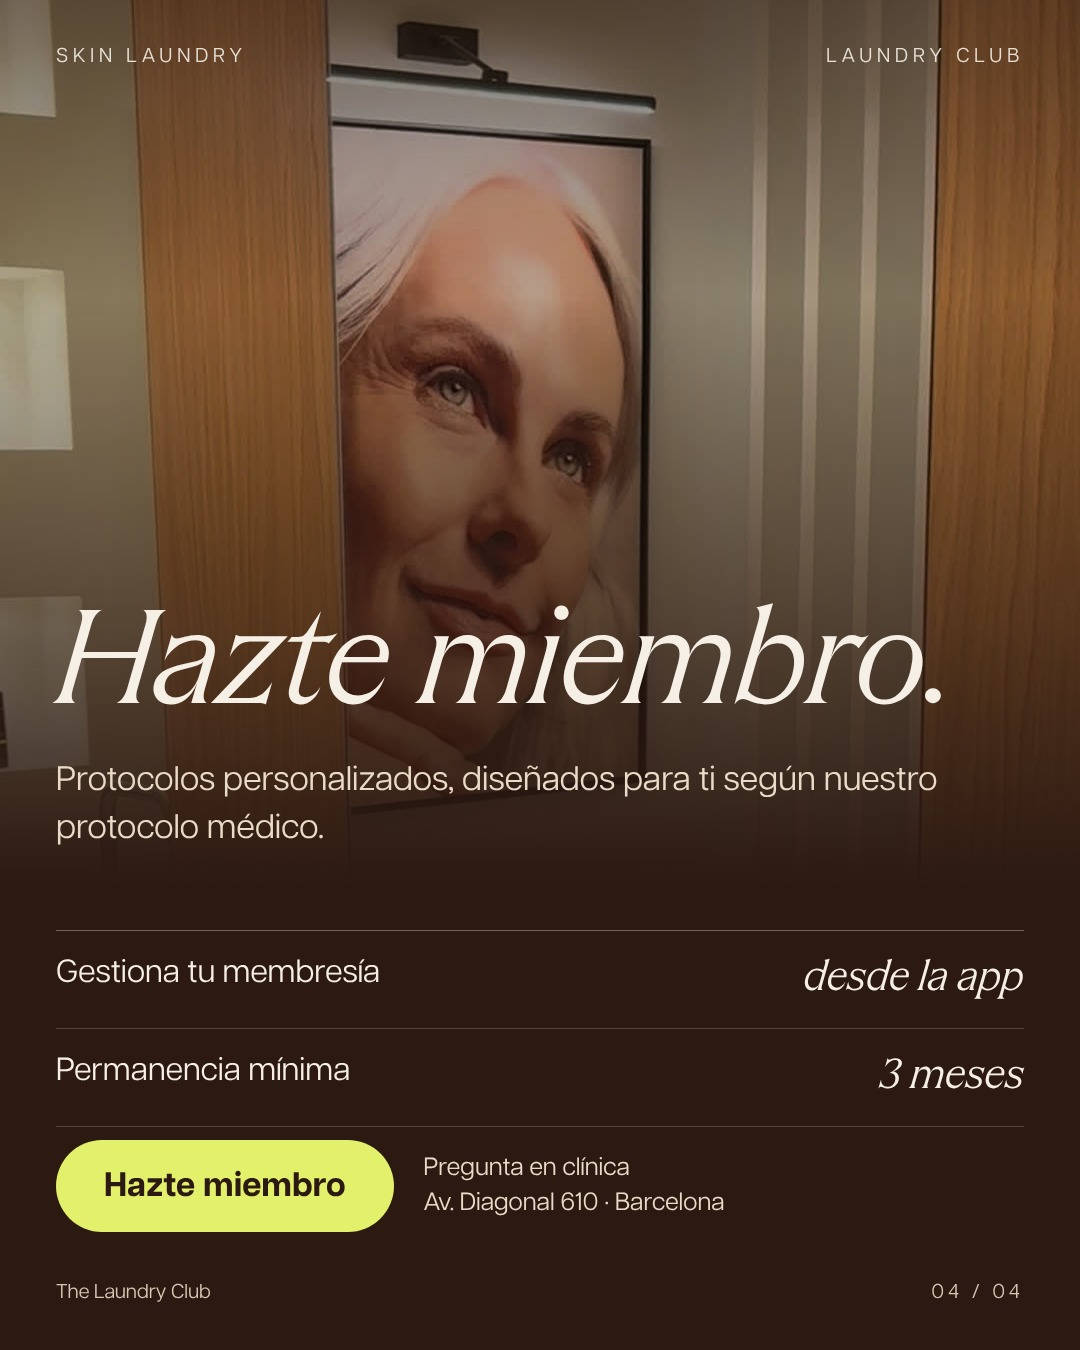
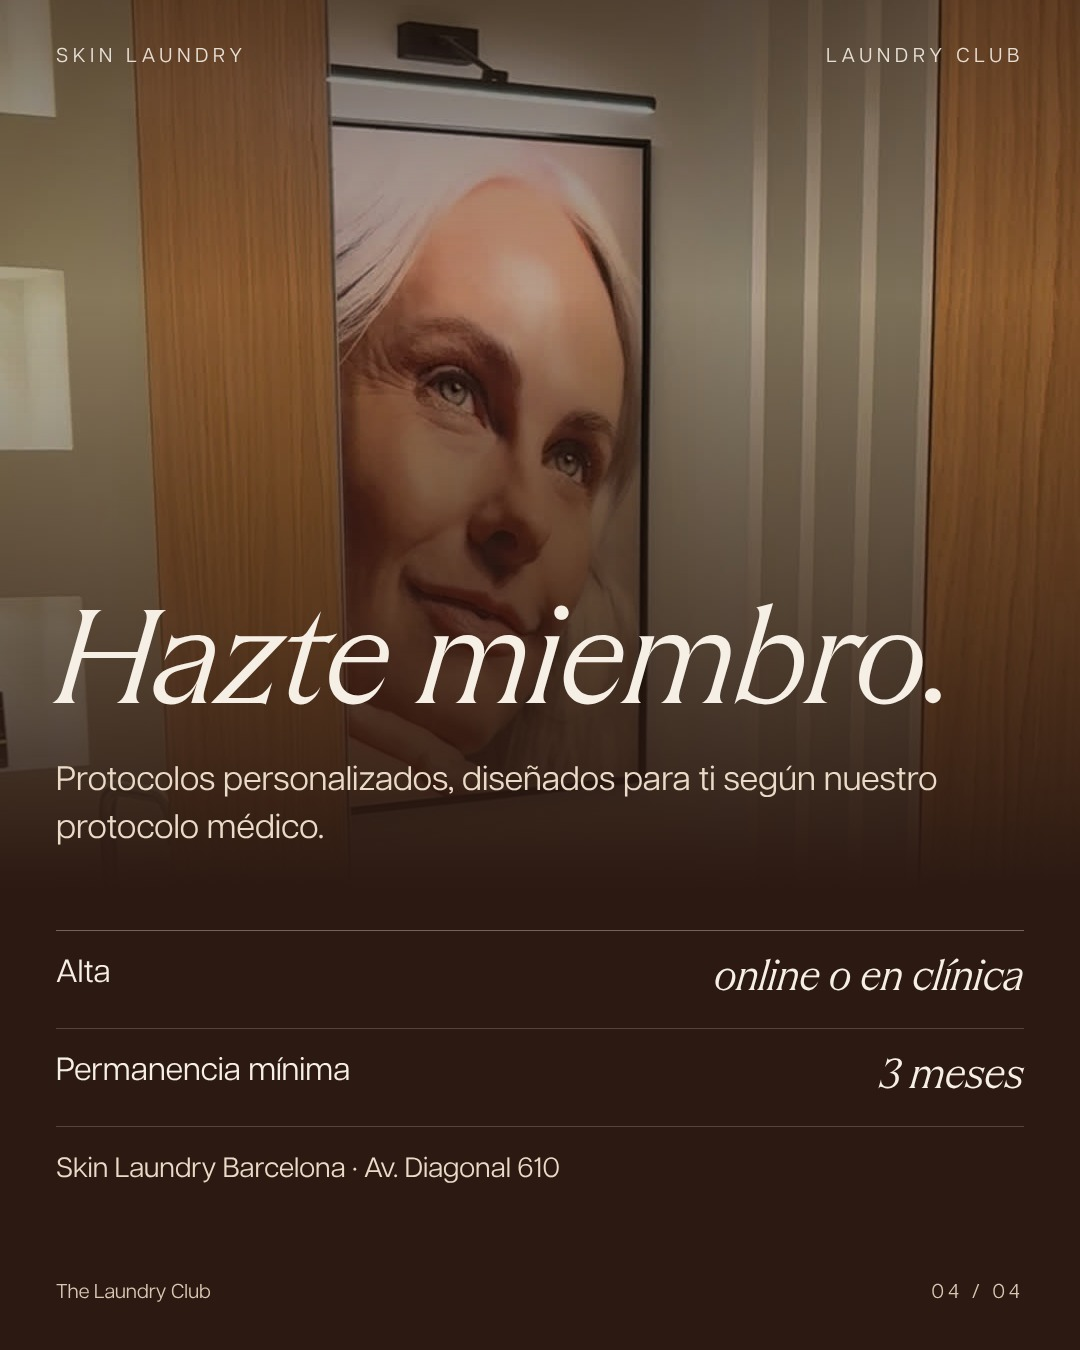
Skin Laundry nov: membresía del día 10 sin botón, alta online o en clínica y «1 facial al mes»
Claude-Session: https://claude.ai/code/session_012nXickGDk6Nm8WByDsu8ty

Changed region(s): [[0.0306, 0.84, 0.6722, 0.9333], [0.0611, 0.7156, 0.3667, 0.7467], [0.6722, 0.7156, 0.9472, 0.7467]]

diff --git a/public/pitch/skin-laundry-calendario/noviembre/index.html b/public/pitch/skin-laundry-calendario/noviembre/index.html
@@ -634,27 +634,27 @@ Es uno de nuestros Signature Laser Facials (250 €) y está incluido en The Lau
 
 #SkinLaundryBarcelona #LaserFacial #BrighteningLaser #PielLuminosa #MedicinaEsteticaBarcelona` },
 
-{ d:10, formato:"Carrusel", storyImg:"/pitch/skin-laundry-calendario/noviembre/img/drive-d10_story.jpg?v=11101437", cubo:"Branding", tema:"Membresía", hora:"19:30h",
+{ d:10, formato:"Carrusel", storyImg:"/pitch/skin-laundry-calendario/noviembre/img/drive-d10_story.jpg?v=11101559", cubo:"Branding", tema:"Membresía", hora:"19:30h",
   pieza:"Tu piel, en modo constancia",
   base:"Folleto oficial de membresía (Brochure ES 25.02.25)", cta:"Hazte miembro",
-  nota:"Planes, permanencia (3 meses) y tipografía corregidos por la clienta el 10/11 · resto de datos del folleto oficial · sin precios",
-  media:"/pitch/skin-laundry-calendario/noviembre/img/drive-d10_1.jpg?v=11101437", slides:["/pitch/skin-laundry-calendario/noviembre/img/drive-d10_1.jpg?v=11101437","/pitch/skin-laundry-calendario/noviembre/img/drive-d10_2.jpg?v=11101437","/pitch/skin-laundry-calendario/noviembre/img/drive-d10_3.jpg?v=11101437","/pitch/skin-laundry-calendario/noviembre/img/drive-d10_4.jpg?v=11101437"],
-  idea:["1 · Tu piel, en modo constancia","2 · Elige tu ritmo: Prevent and Protect, Correct and Maintain y Refine and Enhance (1, 2 o 4 al mes) + láseres a escoger","3 · Todos los planes incluyen: descuentos, ofertas con marcas afines y Laundry Token Loyalty","4 · Hazte miembro: app, permanencia mínima de 3 meses y Diagonal 610"],
+  nota:"Planes, permanencia (3 meses), tipografía y alta (online o en clínica, sin botón) corregidos por la clienta el 10/11 · resto de datos del folleto oficial · sin precios",
+  media:"/pitch/skin-laundry-calendario/noviembre/img/drive-d10_1.jpg?v=11101559", slides:["/pitch/skin-laundry-calendario/noviembre/img/drive-d10_1.jpg?v=11101559","/pitch/skin-laundry-calendario/noviembre/img/drive-d10_2.jpg?v=11101559","/pitch/skin-laundry-calendario/noviembre/img/drive-d10_3.jpg?v=11101559","/pitch/skin-laundry-calendario/noviembre/img/drive-d10_4.jpg?v=11101559"],
+  idea:["1 · Tu piel, en modo constancia","2 · Elige tu ritmo: Prevent and Protect, Correct and Maintain y Refine and Enhance (1, 2 o 4 al mes) + láseres a escoger","3 · Todos los planes incluyen: descuentos, ofertas con marcas afines y Laundry Token Loyalty","4 · Hazte miembro: online o en clínica, permanencia mínima de 3 meses y Diagonal 610"],
   story:["Nuevo post: Tu piel, en modo constancia · 1, 2 o 4 faciales al mes","Sticker de enlace: descubre todas las ventajas"],
   copy:`Tu piel, en modo constancia 🤍
 
 Una piel radiante no ocurre por casualidad: requiere constancia, asesoramiento experto y una rutina que evolucione contigo. Por eso existe The Laundry Club, nuestra membresía.
 
 Elige tu ritmo:
-✨ Prevent and Protect · 1 láser al mes
+✨ Prevent and Protect · 1 facial al mes
 ✨ Correct and Maintain · 2 faciales al mes
 ✨ Refine and Enhance · 4 faciales al mes
 
-Todos los planes incluyen descuentos en add-ons, productos Skin Laundry, otros tratamientos láser y medicina estética, ofertas exclusivas con marcas afines y acceso a Laundry Token Loyalty, nuestro programa de fidelización. Y lo gestionas todo desde la app.
+Todos los planes incluyen descuentos en add-ons, productos Skin Laundry, otros tratamientos láser y medicina estética, ofertas exclusivas con marcas afines y acceso a Laundry Token Loyalty, nuestro programa de fidelización.
 
 Desliza para verlo 👉
 
-📍 Pregunta en clínica · Av. Diagonal 610, Barcelona
+📍 Hazte miembro online o en clínica · Av. Diagonal 610, Barcelona
 
 #TheLaundryClub #Membresia #LaserFacial #SkinLaundryBarcelona #TreatGlowRepeat` },
 { d:12, formato:"Carrusel", storyImg:"/pitch/skin-laundry-calendario/noviembre/img/drive-d12_story.jpg?v=11101437", cubo:"Med. estética", tema:"Contorno de ojos", hora:"13:30h",
